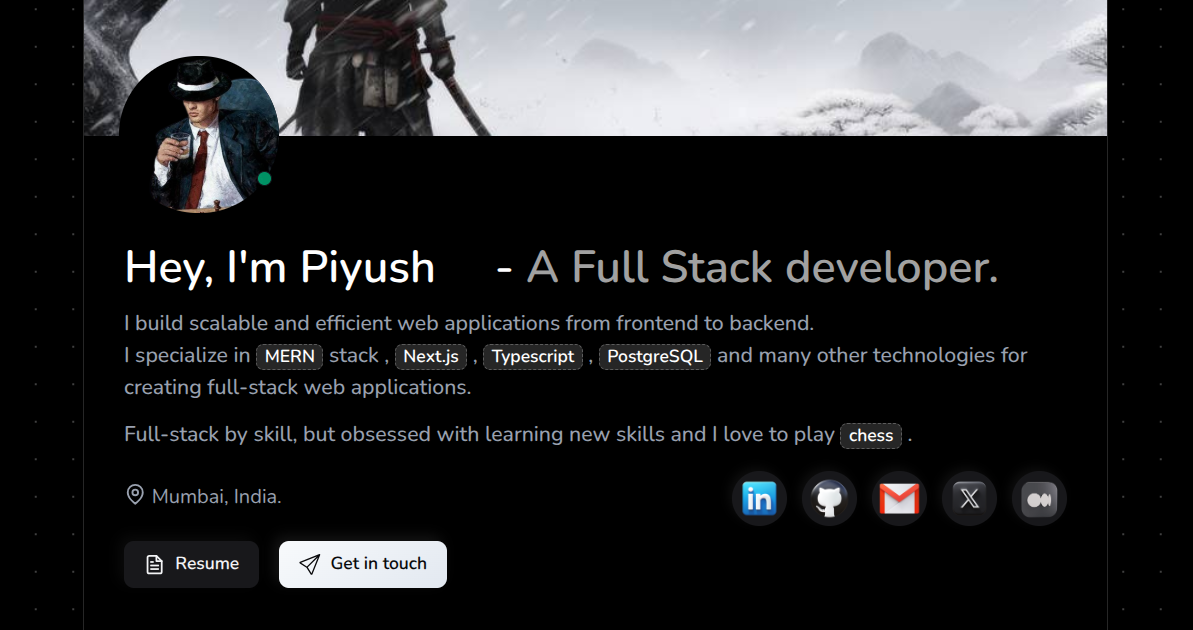
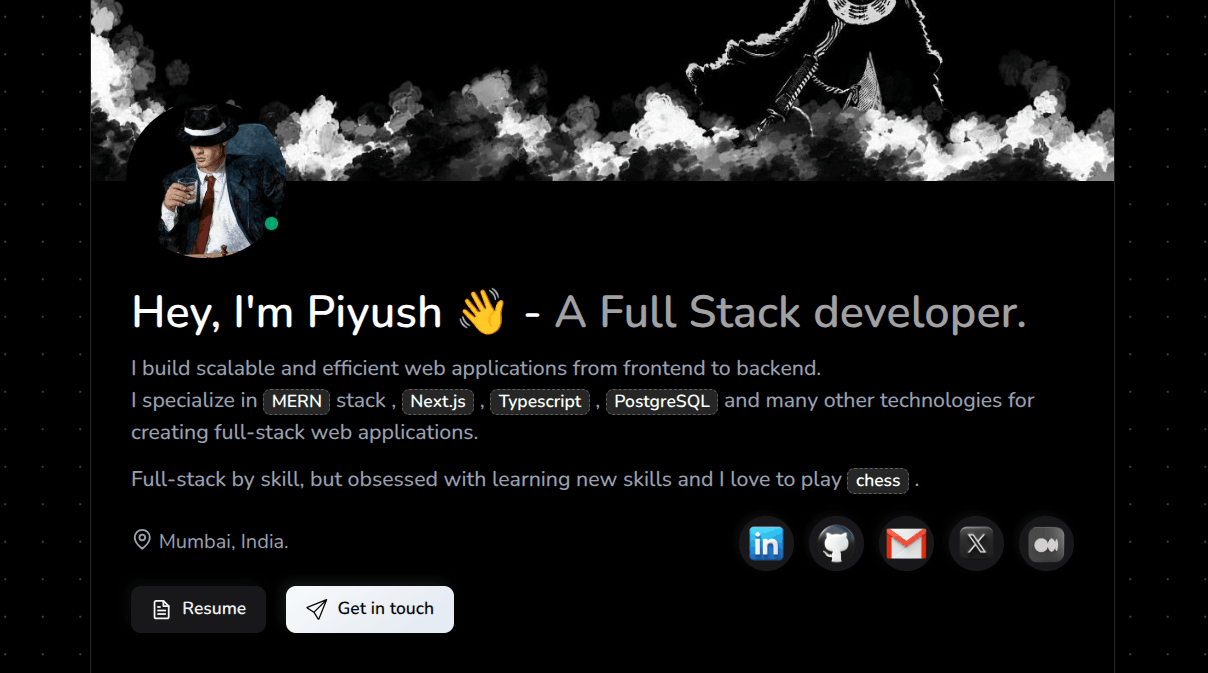
feat: update the og-image and the layout of the blogs section

diff --git a/src/components/blogs/BlogCard.jsx b/src/components/blogs/BlogCard.jsx
@@ -1,85 +1,47 @@
-import { motion } from "framer-motion";
 import { BiCalendar } from "react-icons/bi";
-import { FiClock } from "react-icons/fi";
+import { FiArrowUpRight, FiClock } from "react-icons/fi";
 
-const BlogCard = ({ blog, key }) => {
+const BlogCard = ({ blog }) => {
   return (
-    <motion.div
-      className="group flex flex-col h-full bg-gray-100 dark:bg-neutral-900 rounded-xl shadow-sm hover:shadow-md transition-shadow duration-300 p-5 border border-slate-200 dark:border-slate-800"
-      initial={{ opacity: 0, y: 40 }}
-      whileInView={{ opacity: 1, y: 0 }}
-      viewport={{ once: true }}
-      transition={{ delay: key * 0.1, duration: 1, type: "spring" }}
-    >
-      {/* Badge */}
-      {blog.isFeatured && (
-        <div className="mb-4">
-          <span className="inline-block bg-blue-500 text-white text-xs font-semibold px-3 py-1 rounded-md">
-            Featured
-          </span>
-        </div>
-      )}
-
-      {/* Content */}
-      <div className="flex-1">
-        <h3 className="text-2xl font-semibold text-slate-900 dark:text-white mb-3 leading-tight group-hover:text-black dark:group-hover:text-neutral-400 transition-colors">
+    <article className="group grid gap-5 border-b border-slate-200 py-6 last:border-b-0 dark:border-neutral-800 md:grid-cols-[minmax(0,1fr)_auto] md:items-center md:gap-7">
+      <div className="min-w-0">
+        <h3 className="text-xl font-semibold leading-tight text-slate-900 transition-colors group-hover:text-slate-600 dark:text-white dark:group-hover:text-slate-300">
           {blog.title}
         </h3>
-        <p className="text-slate-600 dark:text-slate-400 text-sm leading-relaxed mb-6">
+        <p className="mt-2 max-w-2xl text-sm leading-relaxed text-slate-600 dark:text-slate-400">
           {blog.desc}
         </p>
 
-        {/* Tags */}
-        <div className="flex flex-wrap gap-2 mb-6">
-          {blog.tags.map((tag, index) => (
-            <span
-              key={index}
-              className="inline-flex items-center px-2.5 py-1 rounded-md text-xs font-medium bg-slate-200/80 dark:bg-slate-800 text-slate-700 dark:text-slate-300"
-            >
-              {tag}
-            </span>
-          ))}
-        </div>
-      </div>
-
-      {/* Footer */}
-      <div className="pt-4 mt-auto border-t border-slate-300 dark:border-slate-800 flex items-center justify-between">
-        <div className="flex items-center gap-3 md:gap-4 text-slate-500 dark:text-slate-500 text-xs md:text-[13px]">
-          <div className="flex items-center gap-0.5 md:gap-1">
-            <BiCalendar size={17} />
-            <span className="pt-1">{blog.date}</span>
+        <div className="flex justify-between">
+          <div className="mt-2.5 flex items-center gap-4 h-fit text-xs font-medium text-slate-500 dark:text-slate-400 md:gap-5">
+            {/* Date and readTime */}
+            <div className="flex items-center gap-1.5 whitespace-nowrap">
+              <BiCalendar size={16} aria-hidden="true" />
+              <span>{blog.date}</span>
+            </div>
+            <div className="flex items-center gap-1.5 whitespace-nowrap">
+              <FiClock size={15} aria-hidden="true" />
+              <span>{blog.readTime}</span>
+            </div>
           </div>
-          <div className="flex items-center gap-0.5 md:gap-1">
-            <FiClock size={16} />
-            <span className="pt-0.5">{blog.readTime}</span>
-          </div>
-        </div>
 
-        <a
-          href={blog.link}
-          target="_blank"
-          rel="noopener noreferrer"
-          className="neu-btn px-2.5 py-1.5 rounded-lg inline-flex items-center gap-1.5 text-slate-600 dark:text-slate-300 text-[12px] md:text-[13px] font-semibold transition-all cursor-pointer"
-        >
-          Read Article
-          <svg
-            xmlns="http://www.w3.org/2000/svg"
-            width="16"
-            height="16"
-            viewBox="0 0 24 24"
-            fill="none"
-            stroke="currentColor"
-            strokeWidth="2"
-            strokeLinecap="round"
-            strokeLinejoin="round"
-            className="transition-transform group-hover:translate-x-1"
+          {/* Read Article Btn */}
+          <a
+            href={blog.link}
+            target="_blank"
+            rel="noopener noreferrer"
+            className="neu-btn flex w-fit shrink-0 items-center gap-2 justify-self-end rounded-lg px-3.5 py-2 text-xs font-medium text-slate-700 focus-visible:outline-2 focus-visible:outline-offset-2 focus-visible:outline-slate-900 dark:text-slate-200 dark:focus-visible:outline-white"
           >
-            <path d="M5 12h14" />
-            <path d="m12 5 7 7-7 7" />
-          </svg>
-        </a>
+            Read Article
+            <FiArrowUpRight
+              size={14}
+              aria-hidden="true"
+              className="transition-transform group-hover:translate-x-0.5 group-hover:-translate-y-0.5"
+            />
+          </a>
+        </div>
       </div>
-    </motion.div>
+    </article>
   );
 };
 

diff --git a/src/data/blogsData.js b/src/data/blogsData.js
@@ -1,28 +1,28 @@
 export const BlogsData = [
-    // {
-    //     id: '1',
-    //     title: "Top 9 Vs code Extensions I use as a Full Stack web developer",
-    //     desc: "I use VS Code every day while building my personal web projects. And extensions help me write code faster and with less stress.",
-    //     tags: ["Web Development", "Productivity", "VS Code", "Full Stack Development", "+1"],
-    //     date: "12-01-2026",
-    //     readTime: "3 min read",
-    //     link: "https://medium.com/@piyush9/top-9-vs-code-extensions-i-use-as-a-full-stack-web-developer-06b05dd68b01",
-    //     isFeatured: false
-    // },
-    // {
-    //     id: '2',
-    //     title: "The Simplest Explanation of Rendering Techniques Like CSR, SSR, SSG, ISR, and RSC",
-    //     desc: "A beginner-friendly explanation of modern rendering techniques in React and Next.js without confusing jargon.",
-    //     tags: ["React", "Next.js", "Web Development", "Frontend", "+1"],
-    //     date: "15-05-2026",
-    //     readTime: "4 min read",
-    //     link: "https://medium.com/@piyush9/the-simplest-explanation-of-rendering-techniques-like-csr-ssr-ssg-isr-and-rsc-fb28aa7cf3db",
-    //     isFeatured: false
-    // },
+    {
+        id: '1',
+        title: "Top 9 Vs code Extensions I use as a Full Stack web developer",
+        desc: "I use VS Code every day while building my personal web projects. And extensions help me...",
+        tags: ["Web Development", "Productivity", "VS Code", "Full Stack Development", "+1"],
+        date: "12-01-2026",
+        readTime: "3 min read",
+        link: "https://medium.com/@piyush9/top-9-vs-code-extensions-i-use-as-a-full-stack-web-developer-06b05dd68b01",
+        isFeatured: false
+    },
+    {
+        id: '2',
+        title: "The Simplest Explanation of Rendering Techniques Like CSR, SSR, SSG, ISR, and RSC",
+        desc: "A beginner-friendly explanation of modern rendering techniques in React and Next.js without...",
+        tags: ["React", "Next.js", "Web Development", "Frontend", "+1"],
+        date: "15-05-2026",
+        readTime: "4 min read",
+        link: "https://medium.com/@piyush9/the-simplest-explanation-of-rendering-techniques-like-csr-ssr-ssg-isr-and-rsc-fb28aa7cf3db",
+        isFeatured: false
+    },
     {
         id: '3',
-        title: "The Authentication Concepts Every Developer Should Know...",
-        desc: "Authentication is the process of verifying a user’s identity. Before allowing a user to perform certain actions in an application, we first confirm who they are.",
+        title: "The Authentication Concepts Every Developer Should Know",
+        desc: "Authentication is the process of verifying a user’s identity. Before allowing a user to...",
         tags: ["Web Development", "Authentication", "VS Code", "Full Stack Development", "+1"],
         date: "04-06-2026",
         readTime: "5 min read",
@@ -32,7 +32,7 @@ export const BlogsData = [
     {
         id: '4',
         title: "Why Most React Developers Eventually Learn Next.js",
-        desc: "Next.js transforms React from a client-side user interface library into a full-stack framework. Remember that React is a UI library, whereas Next.js is a framework...",
+        desc: "Next.js transforms React from a client-side user interface library into a full-stack...",
         tags: ["Web Development", "Next.js", "React.js", "Full Stack Development", "+1"],
         date: "15-06-2026",
         readTime: "4 min read",

diff --git a/src/components/blogs/Blogs.jsx b/src/components/blogs/Blogs.jsx
@@ -1,31 +1,58 @@
-import { motion } from "framer-motion";
+import { useState } from "react";
 import BlogCard from "./BlogCard";
 import { BlogsData } from "../../data/blogsData";
+import { FiChevronDown, FiChevronUp } from "react-icons/fi";
 
 const Blogs = () => {
+  const [showAll, setShowAll] = useState(false);
+  const featuredBlogs = BlogsData.slice(-2);
+  const remainingBlogs = BlogsData.slice(0, -2);
+
   return (
     <section className="w-full px-4 py-14 md:px-8 scroll-mt-8">
       {/* TITLE and DESC */}
-      <motion.div
-        initial={{ opacity: 0, y: 40 }}
-        whileInView={{ opacity: 1, y: 0 }}
-        transition={{ duration: 0.5 }}
-        viewport={{ once: true }}
-      >
+      <div>
         <h2 className="text-3xl md:text-4xl font-semibold text-gray-900 dark:text-white mb-3">
           Blogs
         </h2>
         <p className="text-lg text-gray-800 dark:text-gray-300 font-medium mb-10 max-w-2xl">
           Thoughts, insights, and experiences from my learning journey
         </p>
-      </motion.div>
+      </div>
 
-      {/* BLOGS CARD */}
-      <div className="grid md:grid-cols-2 gap-10">
-        {BlogsData.map((blog) => (
+      <div className="border-y border-slate-200 dark:border-neutral-800">
+        {featuredBlogs.map((blog) => (
           <BlogCard key={blog.id} blog={blog} />
         ))}
+
+        {remainingBlogs.length > 0 && (
+          <div
+            className={`grid transition-[grid-template-rows] duration-500 ease-out ${
+              showAll ? "grid-rows-[1fr]" : "grid-rows-[0fr]"
+            }`}
+          >
+            <div className="min-h-0 overflow-hidden">
+              {remainingBlogs.map((blog) => (
+                <BlogCard key={blog.id} blog={blog} />
+              ))}
+            </div>
+          </div>
+        )}
       </div>
+
+      {remainingBlogs.length > 0 && (
+        <div className="mt-7 flex justify-center">
+          <button
+            type="button"
+            onClick={() => setShowAll((current) => !current)}
+            aria-expanded={showAll}
+            className="neu-btn px-4 py-[9px] text-slate-700 dark:text-slate-200 text-sm font-semibold rounded-lg flex items-center gap-2 cursor-pointer"
+          >
+            {showAll ? "Show fewer blogs" : "Show more blogs"}
+            {showAll ? <FiChevronUp size={17} /> : <FiChevronDown size={17} />}
+          </button>
+        </div>
+      )}
     </section>
   );
 };

diff --git a/src/components/projects/Projects.jsx b/src/components/projects/Projects.jsx
@@ -66,9 +66,9 @@ const Projects = () => {
         <Dialog>
           {/* More Projects btn */}
           <DialogTrigger asChild>
-            <button className="neu-btn px-5 py-[9px] text-neutral-900 dark:text-neutral-100 font-semibold rounded-lg cursor-pointer flex items-center gap-2">
+            <button className="neu-btn px-4 py-[9px] text-slate-700 dark:text-slate-200 text-sm font-semibold rounded-lg flex items-center gap-2 cursor-pointer">
               See more projects
-              <FaArrowRightLong className="mt-0.5" />
+              <FaArrowRightLong size={12} />
             </button>
           </DialogTrigger>
 
